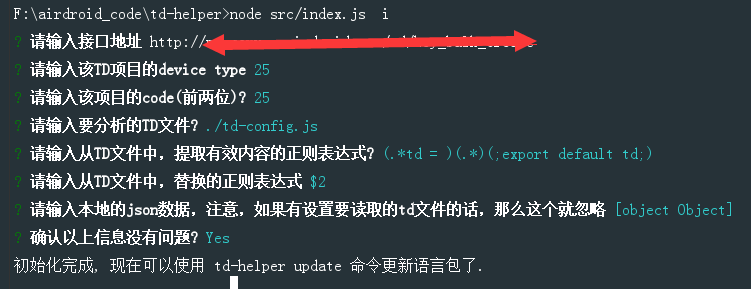
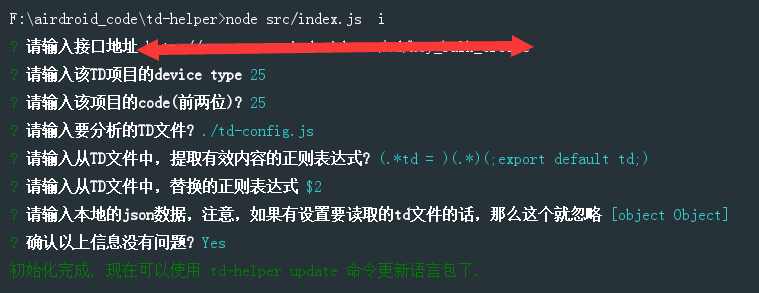
增加了 node-command-1 文章

Changed region(s): [[0.0, 0.4048, 0.98, 1.0], [0.0, 0.0311, 0.735, 0.2803], [0.0, 0.3114, 0.3675, 0.3737]]

diff --git a/source/_posts/node-command-1.md b/source/_posts/node-command-1.md
@@ -126,9 +126,9 @@ inquirer.prompt([{
             options.replaceReg = result.replaceReg;
             options.jsonData = result.jsonData;
             fs.writeFileSync(TD_OPTIONS_FILE, JSON.stringify(options, null, 2));
-            process.stdout.write('初始化完成, 现在可以使用 td-helper update 命令更新语言包了.\n');
+            console.log(chalk.green('初始化完成, 现在可以使用 td-helper update 命令更新语言包了.'));
         } else {
-            process.stdout.write('已取消\n');
+            console.log(chalk.red('已取消'));
         }
     }).catch(function (e) {
         return console.log(e);
